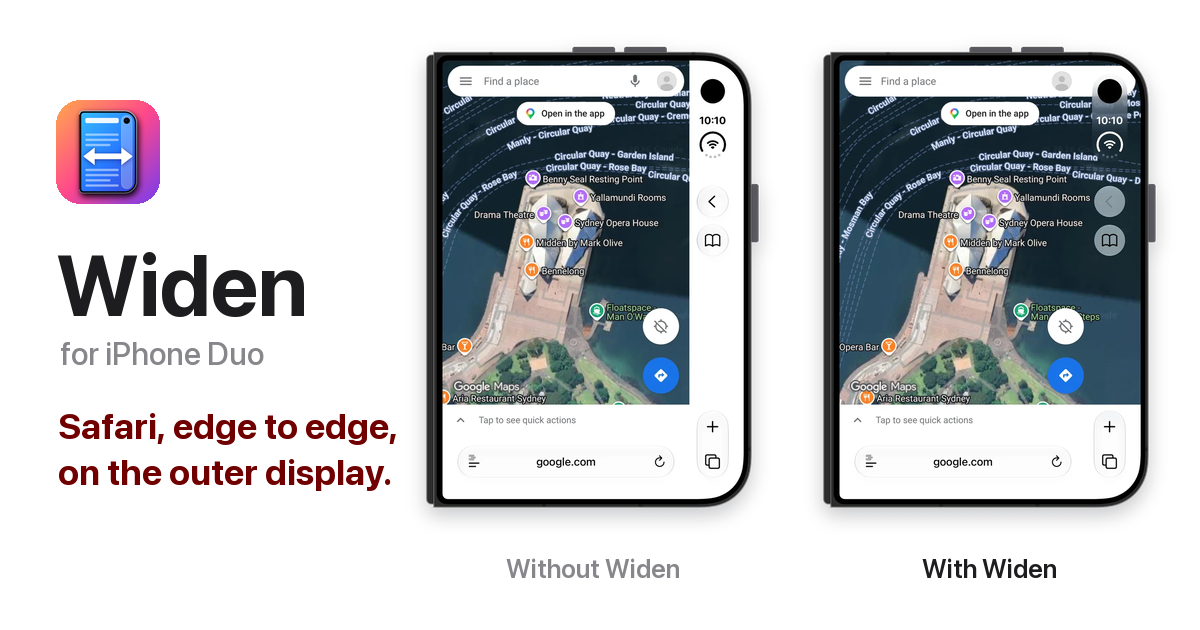
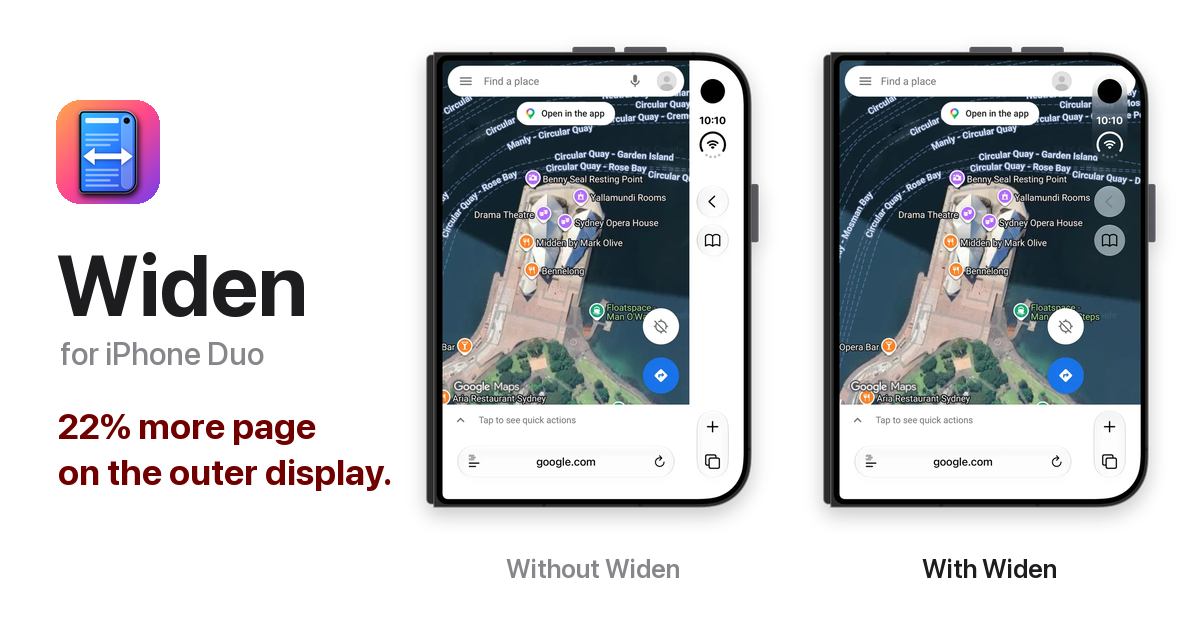
Share image says '22% more page on the outer display', distinct from the title

Changed region(s): [[0.0308, 0.6333, 0.3392, 0.7238]]

diff --git a/index.html b/index.html
@@ -10,7 +10,7 @@
 <meta property="og:title" content="Widen for iPhone Duo — Safari, edge to edge">
 <meta property="og:description" content="Widen is a Safari extension for the iPhone Duo. On the iPhone Duo&#39;s outer display, Safari leaves an empty band beside its buttons; Widen fills it with the page you're reading.">
 <meta property="og:url" content="https://widen.challis.com.au/">
-<meta property="og:image" content="https://widen.challis.com.au/img/share.png">
+<meta property="og:image" content="https://widen.challis.com.au/img/share.png?v=2">
 <meta property="og:image:width" content="1200">
 <meta property="og:image:height" content="630">
 <meta property="og:image:alt" content="Google Maps on iPhone Duo's outer display, without and with Widen">

diff --git a/faq/index.html b/faq/index.html
@@ -10,7 +10,7 @@
 <meta property="og:title" content="FAQ — Widen for iPhone Duo">
 <meta property="og:description" content="Answers about Widen, the Safari extension for the iPhone Duo&#39;s outer display: phones, browsers, websites, privacy and the free week.">
 <meta property="og:url" content="https://widen.challis.com.au/faq/">
-<meta property="og:image" content="https://widen.challis.com.au/img/share.png">
+<meta property="og:image" content="https://widen.challis.com.au/img/share.png?v=2">
 <meta property="og:image:width" content="1200">
 <meta property="og:image:height" content="630">
 <meta property="og:image:alt" content="Google Maps on iPhone Duo's outer display, without and with Widen">

diff --git a/setup/index.html b/setup/index.html
@@ -10,7 +10,7 @@
 <meta property="og:title" content="Set up — Widen for iPhone Duo">
 <meta property="og:description" content="How to set up Widen on iPhone Duo: the app, Safari settings, and choosing Widen in Safari, with pictures.">
 <meta property="og:url" content="https://widen.challis.com.au/setup/">
-<meta property="og:image" content="https://widen.challis.com.au/img/share.png">
+<meta property="og:image" content="https://widen.challis.com.au/img/share.png?v=2">
 <meta property="og:image:width" content="1200">
 <meta property="og:image:height" content="630">
 <meta property="og:image:alt" content="Google Maps on iPhone Duo's outer display, without and with Widen">

diff --git a/privacy/index.html b/privacy/index.html
@@ -10,7 +10,7 @@
 <meta property="og:title" content="Privacy Policy — Widen for iPhone Duo">
 <meta property="og:description" content="Widen collects no data, has no analytics and makes no network connections of its own.">
 <meta property="og:url" content="https://widen.challis.com.au/privacy/">
-<meta property="og:image" content="https://widen.challis.com.au/img/share.png">
+<meta property="og:image" content="https://widen.challis.com.au/img/share.png?v=2">
 <meta property="og:image:width" content="1200">
 <meta property="og:image:height" content="630">
 <meta property="og:image:alt" content="Google Maps on iPhone Duo's outer display, without and with Widen">

diff --git a/support/index.html b/support/index.html
@@ -10,7 +10,7 @@
 <meta property="og:title" content="Support — Widen for iPhone Duo">
 <meta property="og:description" content="Help with Widen, the Safari extension for the iPhone Duo's outer display.">
 <meta property="og:url" content="https://widen.challis.com.au/support/">
-<meta property="og:image" content="https://widen.challis.com.au/img/share.png">
+<meta property="og:image" content="https://widen.challis.com.au/img/share.png?v=2">
 <meta property="og:image:width" content="1200">
 <meta property="og:image:height" content="630">
 <meta property="og:image:alt" content="Google Maps on iPhone Duo's outer display, without and with Widen">
